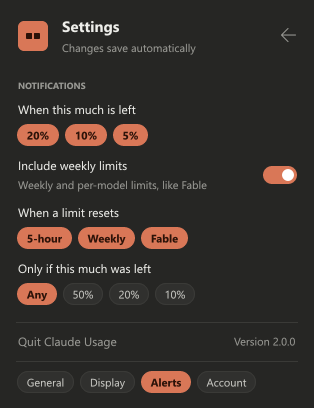
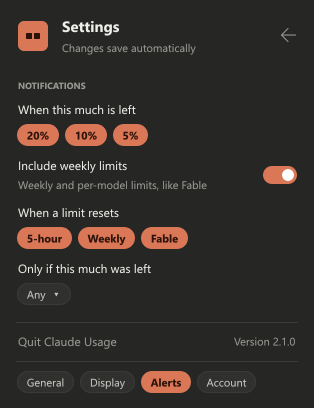
2.1.0: pace forecast, error reasons, more dropdowns
- "At this pace" under the 5-hour and weekly bars: when 100% will be
  reached if that's before the reset, or roughly where it ends
- Widget says why there are no numbers: Offline, Log in, Wait or Error;
  the tray tooltip adds the reason and the time of the last numbers
- Widget and tray can show a per-model limit such as Fable
- Refresh interval, tray number, data source and reset threshold are
  dropdowns now; the data source got a label
- Middle-click the widget to refresh
- README and screenshots updated

diff --git a/src/app.rs b/src/app.rs
@@ -57,9 +57,8 @@ enum Action {
     Main,
     Url(String),
     Toggle(&'static str),
-    Set(&'static str, Value),
     /// Dropdown: pick one value for the setting from a menu.
-    Pick(&'static str, Vec<(Value, &'static str)>),
+    Pick(&'static str, Vec<(Value, String)>),
     ResetKey(String, bool),
     Tab(&'static str),
     Login,
@@ -156,6 +155,20 @@ fn limit_name(key: &str, label: &str) -> String {
         "five_hour" => "5-hour limit".into(),
         "seven_day" => "weekly limit".into(),
         _ => format!("weekly {} limit", short_name(key, label)),
+    }
+}
+
+/// One word for the widget about why there are no fresh numbers.
+fn error_word(e: &str) -> &'static str {
+    let e = e.to_lowercase();
+    if e.contains("network error") {
+        "Offline"
+    } else if e.contains("too many") {
+        "Wait"
+    } else if ["expired", "sign in", "log in", "no claude code login", "session key", "refused"].iter().any(|w| e.contains(w)) {
+        "Log in"
+    } else {
+        "Error"
     }
 }
 
@@ -299,7 +312,7 @@ enum After {
     Nothing,
     Menu { x: i32, y: i32, tray: bool },
     /// Dropdown menu for a setting, opened below (x, y) in screen pixels.
-    Pick { key: &'static str, opts: Vec<(Value, &'static str)>, x: i32, y: i32 },
+    Pick { key: &'static str, opts: Vec<(Value, String)>, x: i32, y: i32 },
 }
 
 unsafe extern "system" fn wndproc(h: HWND, msg: u32, wp: WPARAM, lp: LPARAM) -> LRESULT {
@@ -327,7 +340,7 @@ fn run_after(after: After) {
         }) else {
             return;
         };
-        let items: Vec<Option<&str>> = opts.iter().map(|(_, t)| Some(*t)).collect();
+        let items: Vec<Option<&str>> = opts.iter().map(|(_, t)| Some(t.as_str())).collect();
         let checked = opts.iter().position(|(v, _)| *v == cur).map(|i| i as u32 + 1);
         let cmd = win::popup_menu(root as HWND, &items, x, y, win::MenuOpts { checked, below: true, ..Default::default() });
         APP.with(|a| {
@@ -463,6 +476,12 @@ impl App {
                     sd: Some(((30 - d) % 7 * 12) as f64),
                 })
                 .collect();
+            // the last hour, so the demo shows a pace line under the 5-hour bar
+            // (same formula as the demo reading: +2% a minute, wrapping at 100)
+            for i in (1..=20).rev() {
+                let st = (t - i as f64 * 120.0).trunc();
+                history.push(Sample { t: st, fh: ((st / 30.0) % 100.0).round(), sd: None });
+            }
         }
         let notified = match store::load_json(&store::path("notified.json")) {
             Some(Value::Object(m)) => m,
@@ -661,6 +680,11 @@ impl App {
                     self.toggle_popup();
                     return done;
                 }
+                WM_MBUTTONUP => {
+                    // Middle-click: refresh without opening the popup.
+                    self.manual_refresh();
+                    return done;
+                }
                 WM_RBUTTONUP => {
                     let (x, y) = win::cursor_pos();
                     return (Some(0), After::Menu { x, y, tray: false });
@@ -741,6 +765,51 @@ impl App {
         pill(&self.fonts, self.scale, st.b("widget_square"), st.b("widget_outline"), self.taskbar_bg(), segs)
     }
 
+    /// "At this pace" line for the 5-hour and weekly limits, from the recent history samples:
+    /// when 100% will be reached (if before the reset), or roughly where it ends at the reset.
+    fn pace(&self, u: &Limit) -> Option<(String, Rgb)> {
+        // (length of the period, how far back to measure, shortest span worth trusting)
+        let (period, back, min_span) = match u.key.as_str() {
+            "five_hour" => (5.0 * 3600.0, 90.0 * 60.0, 10.0 * 60.0),
+            "seven_day" => (7.0 * 86400.0, 86400.0, 2.0 * 3600.0),
+            _ => return None,
+        };
+        let reset = u.resets_at?.timestamp() as f64;
+        let t1 = self.updated?;
+        if self.stale() || reset <= now() {
+            return None;
+        }
+        let start = (reset - period).max(t1 - back);
+        let value = |s: &Sample| if u.key == "five_hour" { Some(s.fh) } else { s.sd };
+        // Measure from the oldest sample after the last drop (a reset or a new period).
+        let mut first: Option<(f64, f64)> = None;
+        let mut prev = f64::MIN;
+        for s in self.history.iter().filter(|s| s.t >= start && s.t < t1) {
+            let Some(v) = value(s) else { continue };
+            if first.is_none() || v < prev {
+                first = Some((s.t, v));
+            }
+            prev = v;
+        }
+        let (t0, v0) = first?;
+        if t1 - t0 < min_span || u.pct < v0 {
+            return None;
+        }
+        let rate = (u.pct - v0) / (t1 - t0); // % per second
+        if rate <= 0.0 {
+            return None;
+        }
+        let full = t1 + (100.0 - u.pct) / rate;
+        if full < reset {
+            let at = Local.timestamp_opt(full as i64, 0).single()?;
+            let fmt = if at.date_naive() == Local::now().date_naive() { "%H:%M" } else { "%a %H:%M" };
+            Some((format!("At this pace: 100% around {}", at.format(fmt)), AMBER))
+        } else {
+            let end = u.pct + rate * (reset - t1);
+            Some((format!("At this pace: about {end:.0}% at the reset"), MUTED))
+        }
+    }
+
     /// The numbers are too old to trust: no successful update for 3 refresh periods (at least 15 min).
     fn stale(&self) -> bool {
         let max_age = (3 * self.settings.i("refresh_minutes")).max(15) as f64 * 60.0;
@@ -753,11 +822,13 @@ impl App {
         let segs: Vec<Seg> = match fresh {
             Some(usage) => {
                 let show = st.s("widget_show");
-                let mut keys: Vec<&str> = [("five_hour", show != "seven_day"), ("seven_day", show != "five_hour")]
-                    .into_iter()
-                    .filter(|(k, on)| *on && usage.iter().any(|l| l.key == *k))
-                    .map(|(k, _)| k)
-                    .collect();
+                let mut keys: Vec<&str> = match show.as_str() {
+                    "five_hour" | "seven_day" | "both" => {
+                        [("five_hour", show != "seven_day"), ("seven_day", show != "five_hour")].into_iter().filter(|(_, on)| *on).map(|(k, _)| k).collect()
+                    }
+                    other => vec![other], // a per-model limit, like weekly_fable
+                };
+                keys.retain(|k| usage.iter().any(|l| l.key == *k));
                 if keys.is_empty() {
                     keys.push("five_hour");
                 }
@@ -775,7 +846,8 @@ impl App {
                     })
                     .collect()
             }
-            None => vec![(String::new(), if self.error.is_some() { "!" } else { "--%" }.into(), String::new(), MUTED)],
+            // No usable numbers: say why in a word (Offline, Log in...) instead of a bare "!".
+            None => vec![(String::new(), self.error.as_deref().map_or("--%", error_word).into(), String::new(), MUTED)],
         };
         self.widget_pm = Some(self.pill_image(&segs));
         self.widget_dirty = true;
@@ -909,7 +981,13 @@ impl App {
                     })
                     .collect();
                 let head = if self.stale() { "Claude usage · out of date" } else { "Claude usage" };
-                format!("{head}\n{}", lines.join("\n"))
+                let mut t = format!("{head}\n{}", lines.join("\n"));
+                if let Some(e) = &self.error {
+                    // "Offline · numbers from 14:05"
+                    let when = self.updated.and_then(|u| Local.timestamp_opt(u as i64, 0).single()).map(|d| d.format("%H:%M").to_string());
+                    t += &format!("\n{}{}", error_word(e), when.map(|w| format!(" · numbers from {w}")).unwrap_or_default());
+                }
+                t
             }
             None => "Claude usage".into(),
         };
@@ -1058,7 +1136,6 @@ impl App {
                 let v = !self.settings.b(k);
                 self.set_setting(k, json!(v));
             }
-            Action::Set(k, v) => self.set_setting(k, v),
             Action::ResetKey(k, v) => {
                 let mut keys = self.settings.get("notify_reset_keys").as_object().cloned().unwrap_or_default();
                 keys.insert(k, json!(v));
@@ -1522,6 +1599,11 @@ mod tests {
     #[test]
     fn names() {
         assert_eq!(short_name("weekly_fable", "Weekly, Fable"), "Fable");
+        assert_eq!(error_word("network error: Dns / network error: Dns"), "Offline");
+        assert_eq!(error_word("claude.ai session expired or not valid. Log in again on the Account tab."), "Log in");
+        assert_eq!(error_word("Claude Code login expired. Open Claude Code to renew it."), "Log in");
+        assert_eq!(error_word("Too many usage requests right now. Trying again at 14:05."), "Wait");
+        assert_eq!(error_word("Usage request failed (HTTP 500)"), "Error");
         assert_eq!(limit_name("seven_day", "Weekly, all models"), "weekly limit");
         assert_eq!(limit_name("weekly_fable", "Weekly, Fable"), "weekly Fable limit");
         assert_eq!(color_for(81.0), AMBER);

diff --git a/src/app/view.rs b/src/app/view.rs
@@ -241,7 +241,8 @@ impl<'a> L<'a> {
     }
 
     /// One limit: name, % used, bar and reset time. `old`: the numbers are out of date (greyed).
-    fn bar_block(&mut self, label: &str, pct: f64, reset: &Option<DateTime<Utc>>, note: &str, old: bool) {
+    /// `pace`: the "At this pace" line and its color.
+    fn bar_block(&mut self, label: &str, pct: f64, reset: &Option<DateTime<Utc>>, note: &str, old: bool, pace: Option<(String, Rgb)>) {
         let r9 = self.pt(9.0, Face::Reg);
         let b9 = self.pt(9.0, Face::Bold);
         let r8 = self.pt(8.0, Face::Reg);
@@ -262,6 +263,9 @@ impl<'a> L<'a> {
             txt = format!("{:.0}% left · {txt}", 100.0 - pct);
         }
         self.label(&txt, r8, MUTED, (0.0, 0.0));
+        if let Some((p, col)) = pace.filter(|_| !old) {
+            self.label(&p, r8, col, (0.0, 0.0));
+        }
         if !note.is_empty() {
             self.label(note, r8, MUTED, (0.0, 0.0));
         }
@@ -399,7 +403,7 @@ impl App {
         }
         if let Some(usage) = &self.usage {
             for u in usage {
-                l.bar_block(&u.label, u.pct, &u.resets_at, &u.note, self.stale());
+                l.bar_block(&u.label, u.pct, &u.resets_at, &u.note, self.stale(), self.pace(u));
             }
             if self.settings.b("show_credits") {
                 self.credits_section(&mut l);
@@ -600,9 +604,28 @@ impl App {
         let (f, sc) = (&self.fonts, self.scale);
         l.header("Settings", "Changes save automatically", &[(ICON_BACK, Some(Action::Main))]);
         let chip = |t: &str, on: bool| chip_image(f, sc, t, on);
-        let choices = |key: &'static str, opts: &[(Value, &str)]| -> Vec<(Pixmap, Action)> {
-            opts.iter().map(|(v, t)| (chip(t, s.get(key) == v), Action::Set(key, v.clone()))).collect()
+        // Pick-one setting: a button showing the current choice; clicking it opens a menu.
+        let dropdown = |key: &'static str, opts: &[(Value, &str)]| -> Vec<(Pixmap, Action)> {
+            let opts: Vec<(Value, String)> = opts.iter().map(|(v, t)| (v.clone(), t.to_string())).collect();
+            let cur = opts.iter().find(|(v, _)| s.get(key) == v).or(opts.first()).map_or("", |(_, t)| t.as_str());
+            vec![(chip(&format!("{cur}  ▾"), false), Action::Pick(key, opts.clone()))]
         };
+        // Per-model limits (like Fable) the account has, for the widget and tray choices.
+        let extra: Vec<(Value, String)> = self
+            .usage
+            .iter()
+            .flatten()
+            .filter(|u| u.key != "five_hour" && u.key != "seven_day")
+            .map(|u| (json!(u.key), short_name(&u.key, &u.label)))
+            .collect();
+        let with_extra = |base: &[(Value, &str)]| -> Vec<(Value, String)> {
+            let mut v: Vec<(Value, String)> = base.iter().map(|(v, t)| (v.clone(), t.to_string())).collect();
+            v.extend(extra.iter().cloned());
+            v
+        };
+        fn refs(v: &[(Value, String)]) -> Vec<(Value, &str)> {
+            v.iter().map(|(a, b)| (a.clone(), b.as_str())).collect()
+        }
         let multi = |items: &[(&'static str, &str)]| -> Vec<(Pixmap, Action)> {
             items.iter().map(|(k, t)| (chip(t, s.b(k)), Action::Toggle(k))).collect()
         };
@@ -611,19 +634,19 @@ impl App {
                 l.section("Startup");
                 l.toggle("autostart", s.b("autostart"), "Start with Windows", "");
                 l.toggle("check_updates", s.b("check_updates"), "Check for updates", "Banner when a new version is out");
-                let c = choices("refresh_minutes", &[(json!(5), "5 min"), (json!(10), "10 min"), (json!(15), "15 min"), (json!(30), "30 min")]);
+                let c = dropdown("refresh_minutes", &[(json!(5), "5 min"), (json!(10), "10 min"), (json!(15), "15 min"), (json!(30), "30 min")]);
                 l.labeled("Refresh every", c);
             }
             "display" => {
                 l.section("Taskbar");
                 l.toggle("show_taskbar_widget", s.b("show_taskbar_widget"), "Usage next to the clock", "");
                 if s.b("show_taskbar_widget") {
-                    let opts = vec![(json!("five_hour"), "5 hours"), (json!("seven_day"), "Week"), (json!("both"), "Both")];
-                    let cur = opts.iter().find(|(v, _)| s.get("widget_show") == v).map_or("5 hours", |(_, t)| *t);
-                    l.labeled("Show", vec![(chip(&format!("{cur}  ▾"), false), Action::Pick("widget_show", opts))]);
+                    let opts = with_extra(&[(json!("five_hour"), "5 hours"), (json!("seven_day"), "Week"), (json!("both"), "Both")]);
+                    l.labeled("Show", dropdown("widget_show", &refs(&opts)));
                     l.labeled("", multi(&[("widget_timer", "Time left"), ("widget_square", "Square"), ("widget_outline", "Outline")]));
                 }
-                let c = choices("tray_show", &[(json!("off"), "Off"), (json!("five_hour"), "5-hour"), (json!("seven_day"), "Weekly")]);
+                let opts = with_extra(&[(json!("off"), "Off"), (json!("five_hour"), "5 hours"), (json!("seven_day"), "Week")]);
+                let c = dropdown("tray_show", &refs(&opts));
                 l.labeled("Number in the tray icon", c);
                 l.section("Popup");
                 l.toggle("show_credits", s.b("show_credits"), "Credits & resets", "With the link to the usage page");
@@ -645,13 +668,13 @@ impl App {
                     })
                     .collect();
                 l.labeled("When a limit resets", c);
-                let c = choices("notify_reset_left", &[(json!(100), "Any"), (json!(50), "50%"), (json!(20), "20%"), (json!(10), "10%")]);
+                let c = dropdown("notify_reset_left", &[(json!(100), "Any"), (json!(50), "50%"), (json!(20), "20%"), (json!(10), "10%")]);
                 l.labeled("Only if this much was left", c);
             }
             _ => {
                 l.section("Data source");
-                let c = choices("source", &[(json!("auto"), "Auto"), (json!("claude_code"), "Claude Code"), (json!("claude_ai"), "claude.ai")]);
-                l.labeled("", c);
+                let c = dropdown("source", &[(json!("auto"), "Auto"), (json!("claude_code"), "Claude Code"), (json!("claude_ai"), "claude.ai")]);
+                l.labeled("Get usage from", c);
                 l.toggle("allow_token_refresh", s.b("allow_token_refresh"), "Renew Claude Code login", "When it has expired");
                 l.section("claude.ai");
                 let logged_in = s.has_session_key() && !self.entry_open;

diff --git a/README.md b/README.md
@@ -44,13 +44,15 @@ The other settings tabs:
   </tr>
 </table>
 
-**Next to the clock.** The widget can show the 5-hour limit, the weekly limit, or both, with the time left until each resets. It turns amber when 20% or less is left and red at 5% or less.
+**Next to the clock.** The widget can show the 5-hour limit, the weekly limit, both, or a per-model limit such as Fable, with the time left until each resets. It turns amber when 20% or less is left and red at 5% or less. Click it for the usage window, middle-click it to refresh, right-click it for the menu. When the numbers can't be updated it says why in a word, such as **Offline** or **Log in**, instead of showing old numbers.
 
 <img src="assets/screenshots/widget.png" alt="Taskbar widget variants">
 
 ## Features
 
 - **5-hour and weekly limits** with progress bars and reset times. Per-model weekly limits (for example Fable) appear automatically when your plan has them, and disappear when it doesn't.
+- **At this pace:** from your recent usage, when you'll hit 100% if that's before the reset (in amber), or roughly where you'll be when it resets.
+- **Honest about old numbers:** numbers that are out of date, or from before a reset, are greyed out and marked as such. When you sign in, unlock or wake the PC and the numbers are over 5 minutes old, it fetches new ones.
 - **Credits:** your credit balance and when it expires, plus your monthly credit limit when usage credits are on. **Open usage page ↗** takes you to your usage page on claude.ai.
 - **Resets & extras:** limit resets you can use, such as "Full reset · 1 available · Expires Wed 10 Dec 23:00". Click one to open the usage page on claude.ai, where you can use it.
 - **This week:** daily peak of the 5-hour limit and how your weekly usage grew.
@@ -74,8 +76,8 @@ Open them with the gear icon in the usage window, or right-click the widget → 
 
 | Setting | What it does |
 |---|---|
-| Usage next to the clock | Shows or hides the widget in the taskbar. When it's on, choose what it shows: **5-hour**, **Weekly**, **Time left** (until each resets), plus the colored **Square** and **Outline**. |
-| Number in the tray icon | **Off** (just the logo), **5-hour** or **Weekly**. |
+| Usage next to the clock | Shows or hides the widget in the taskbar. When it's on, **Show** picks the limit: **5 hours**, **Week**, **Both**, or a per-model limit such as **Fable**. Also: **Time left** (until each resets), plus the colored **Square** and **Outline**. |
+| Number in the tray icon | **Off** (just the logo), **5 hours**, **Week**, or a per-model limit. |
 | Credits & resets | Shows or hides credits, limit resets and the usage page link in the usage window. |
 | This week's graph | Shows or hides the weekly chart in the usage window. |
 
@@ -92,9 +94,9 @@ Open them with the gear icon in the usage window, or right-click the widget → 
 
 | Setting | What it does |
 |---|---|
-| Auto / Claude Code / claude.ai | Where usage is read from. **Auto** uses your Claude Code login and falls back to claude.ai. |
+| Get usage from | **Auto**, **Claude Code** or **claude.ai**. **Auto** uses your Claude Code login and falls back to claude.ai. |
 | Renew Claude Code login | Renews the Claude Code login when it has expired, so the numbers keep updating. |
-| claude.ai: Log in | Opens claude.ai in a small window. After you sign in, credits and limit resets are shown too. **Log out** removes the login. While logged out you can also paste the `sessionKey` cookie yourself with the **Paste** button. If the login window can't open, a notification says so. |
+| claude.ai: Log in | Opens claude.ai in a small window. After you sign in, credits and limit resets are shown too. When the login expires, a **Log in** button also shows in the usage window. **Log out** removes the login. While logged out you can also paste the `sessionKey` cookie yourself with the **Paste** button. If the login window can't open, a notification says so. |
 
 ## Install
 
